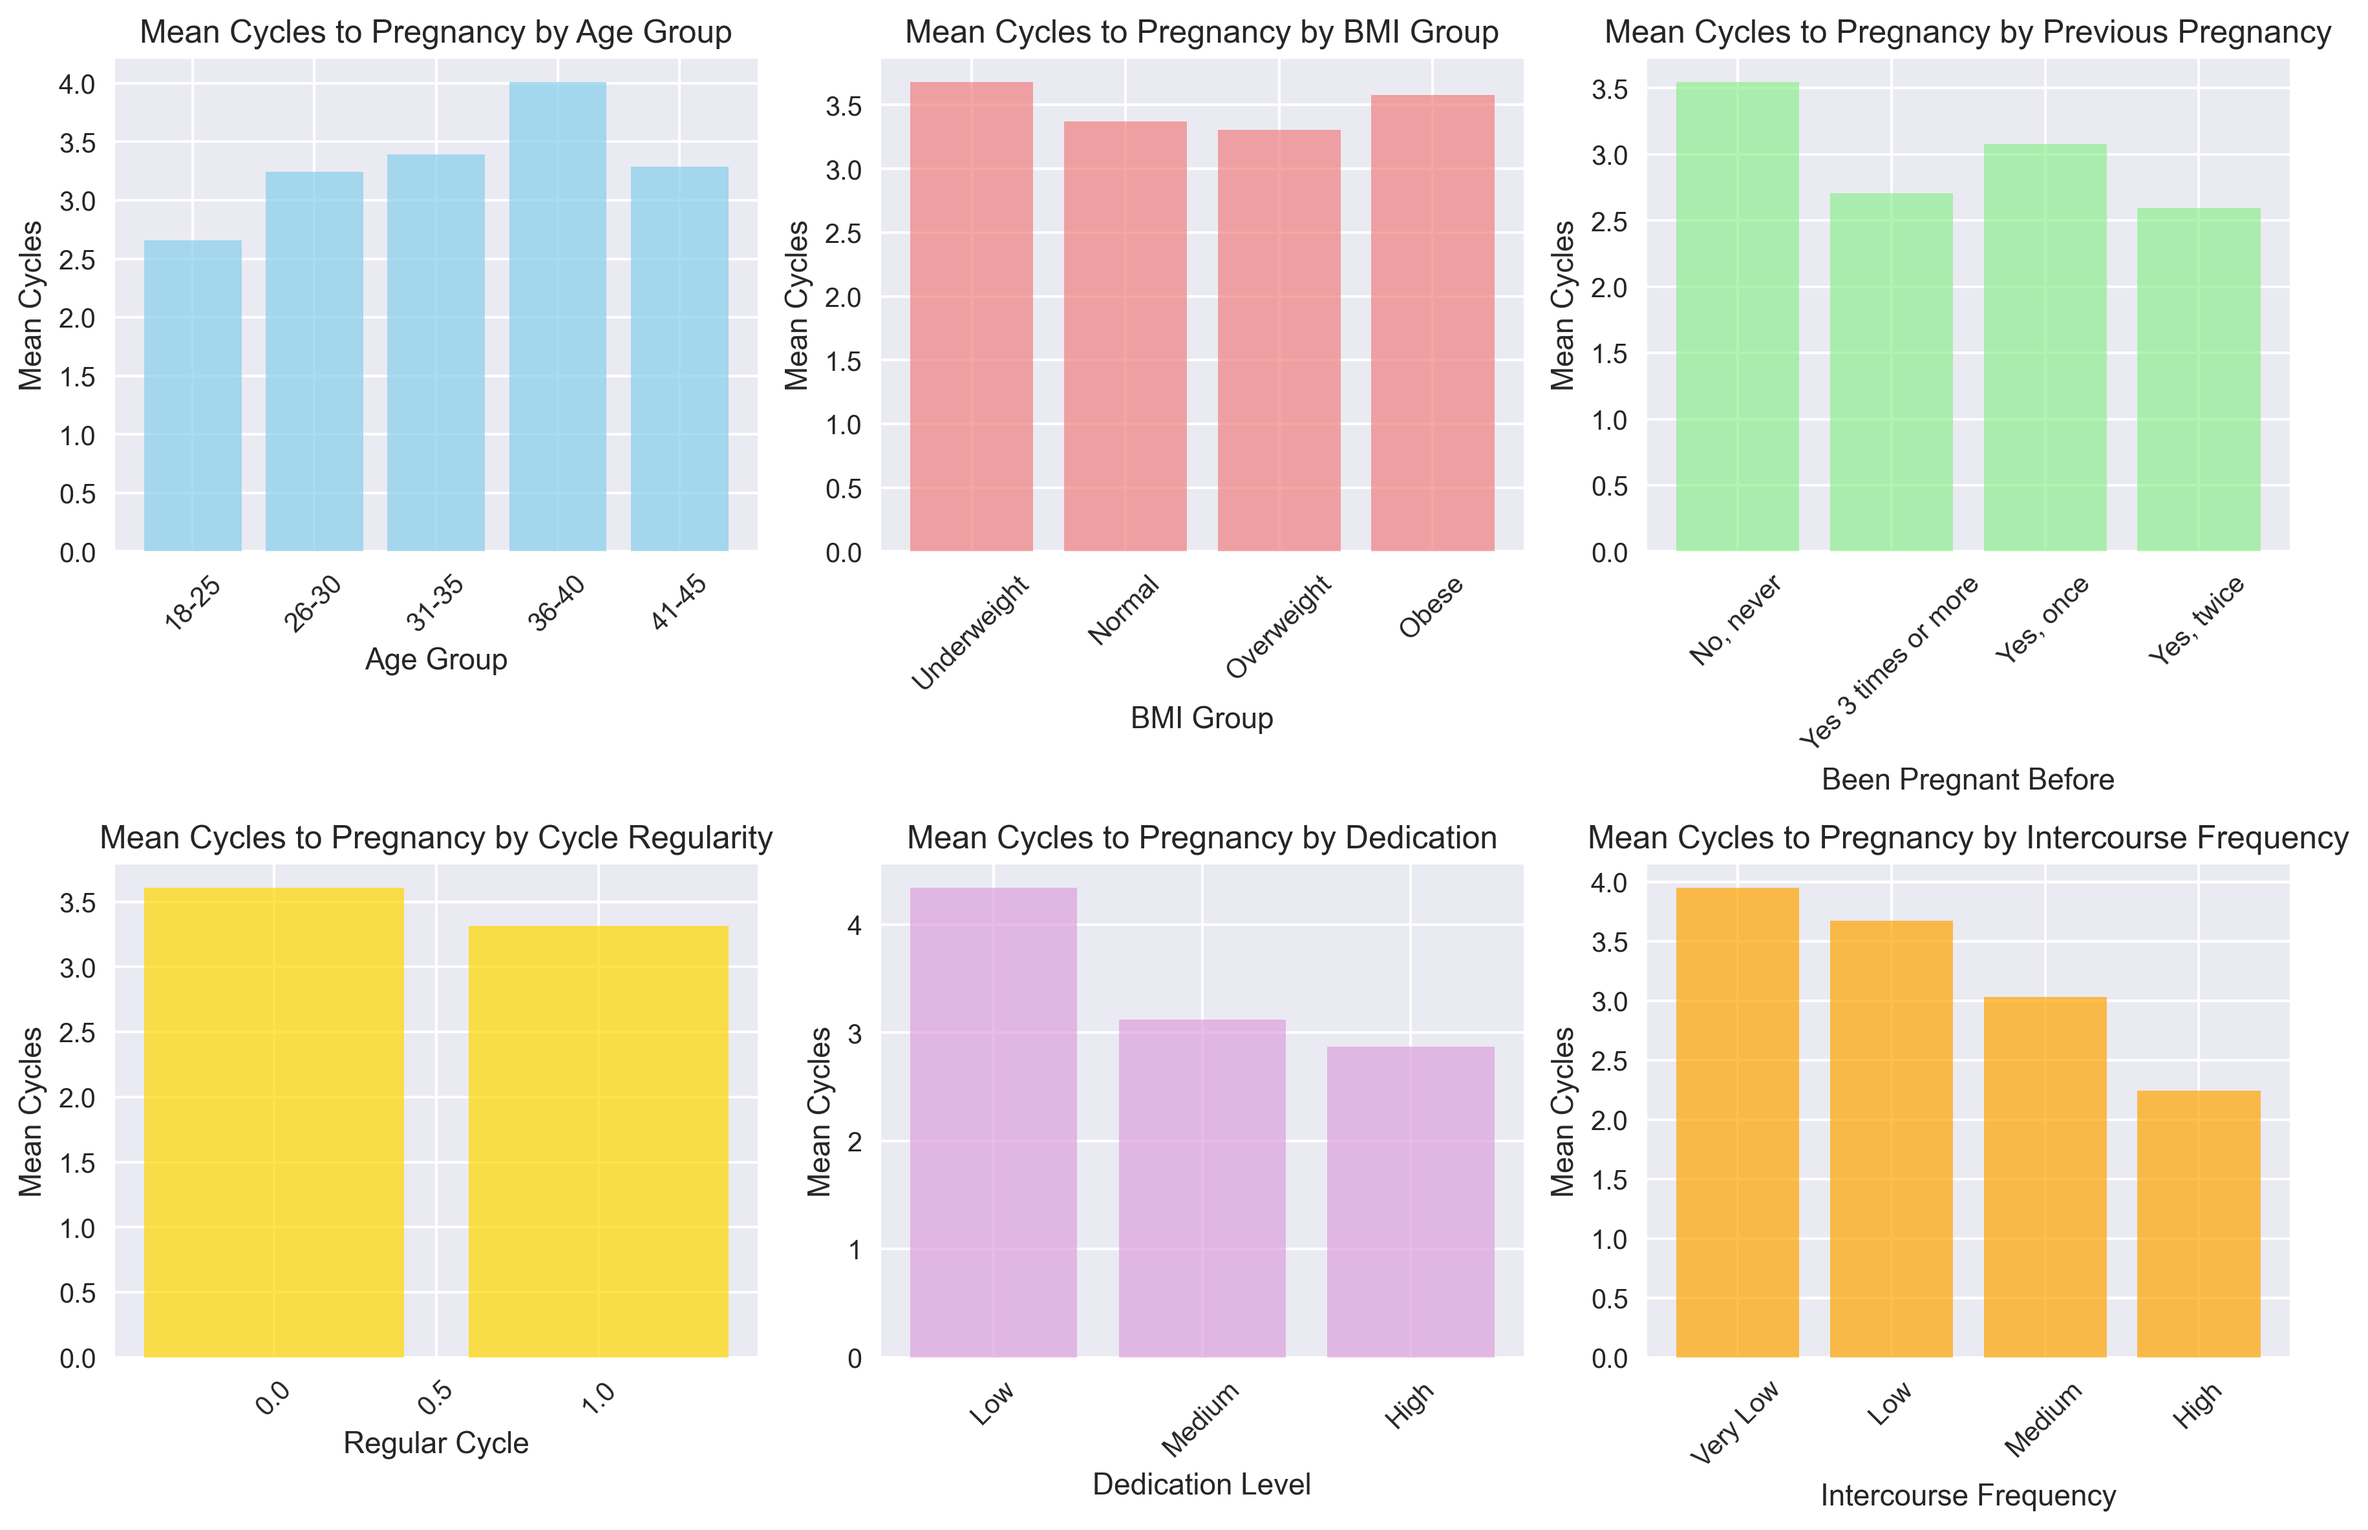
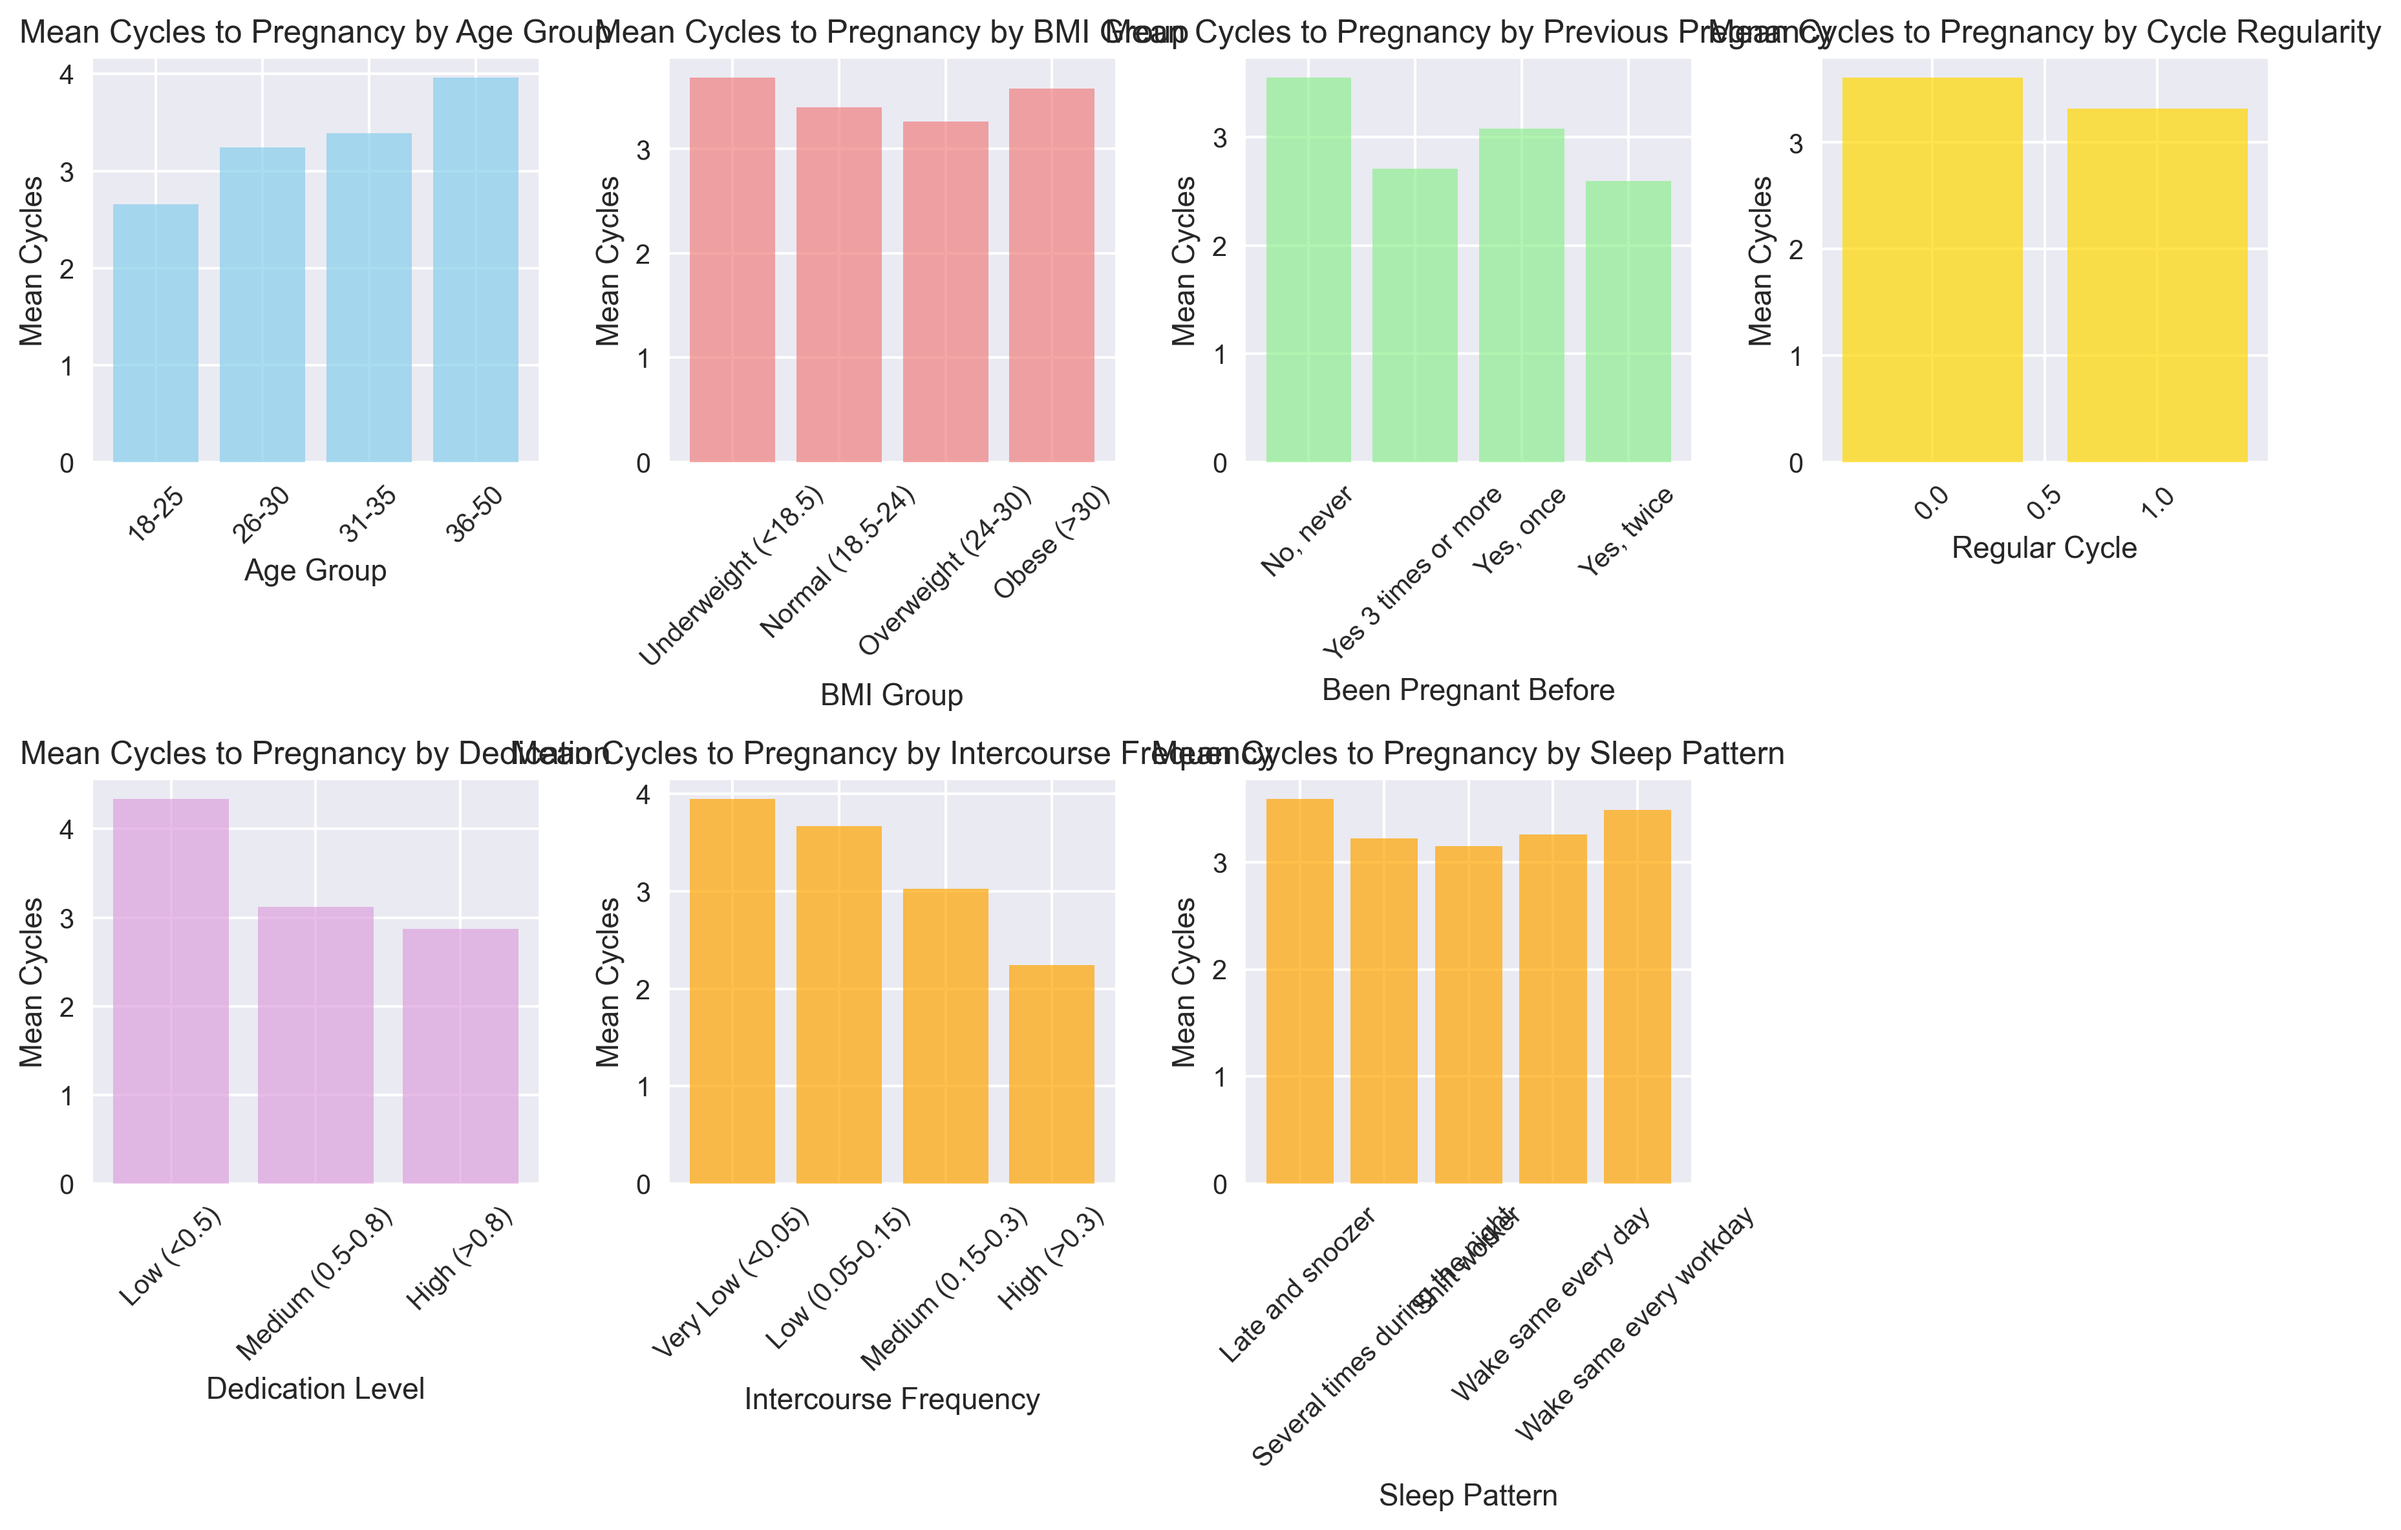
Add sleep analysis

diff --git a/natural_cycles_assignment/question_3_factors_impacting_conception_time.py b/natural_cycles_assignment/question_3_factors_impacting_conception_time.py
@@ -7,6 +7,7 @@ from natural_cycles_assignment.import_data import load_and_clean_data
 from sklearn.model_selection import train_test_split, KFold
 from xgboost import XGBRegressor
 from sklearn.metrics import mean_squared_error, mean_absolute_error, r2_score
+from scipy.stats import pointbiserialr, f_oneway
 
 # Set up plotting style
 plt.style.use("seaborn-v0_8")
@@ -36,7 +37,7 @@ def question_3_factors_impacting_conception_time(df):
 
     # 1. Age analysis
     print("\n1. AGE ANALYSIS:")
-    age_bins = pd.IntervalIndex.from_tuples([(18, 25), (26, 30), (31, 35), (36, 50)])
+    age_bins = [18, 25, 30, 35, 50]
     age_labels = ["18-25", "26-30", "31-35", "36-50"]
 
     df_pregnant["age_group"] = pd.cut(
@@ -65,7 +66,12 @@ def question_3_factors_impacting_conception_time(df):
     # 2. BMI analysis
     print("\n2. BMI ANALYSIS:")
     bmi_bins = [0, 18.5, 24, 30, 50]
-    bmi_labels = ["Underweight (<18.5)", "Normal (18.5-24)", "Overweight (24-30)", "Obese (>30)"]
+    bmi_labels = [
+        "Underweight (<18.5)",
+        "Normal (18.5-24)",
+        "Overweight (24-30)",
+        "Obese (>30)",
+    ]
 
     df_pregnant["bmi_group"] = pd.cut(
         df_pregnant["bmi"], bins=bmi_bins, labels=bmi_labels, include_lowest=True
@@ -109,7 +115,7 @@ def question_3_factors_impacting_conception_time(df):
     # 5. Dedication analysis
     print("\n5. DEDICATION ANALYSIS:")
     dedication_bins = [0, 0.5, 0.8, 1.0]
-    dedication_labels = ["Low", "Medium", "High"]
+    dedication_labels = ["Low (<0.5)", "Medium (0.5-0.8)", "High (>0.8)"]
 
     df_pregnant["dedication_group"] = pd.cut(
         df_pregnant["dedication"],
@@ -127,7 +133,7 @@ def question_3_factors_impacting_conception_time(df):
     # 6. Intercourse frequency analysis
     print("\n6. INTERCOURSE FREQUENCY ANALYSIS:")
     freq_bins = [0, 0.05, 0.15, 0.3, 1.0]
-    freq_labels = ["Very Low", "Low", "Medium", "High"]
+    freq_labels = ["Very Low (<0.05)", "Low (0.05-0.15)", "Medium (0.15-0.3)", "High (>0.3)"]
 
     df_pregnant["freq_group"] = pd.cut(
         df_pregnant["intercourse_frequency"],
@@ -142,11 +148,21 @@ def question_3_factors_impacting_conception_time(df):
     )
     print(freq_analysis)
 
+    # 7. Dedication analysis
+    print("\n7. SLEEPING PATTERN ANALYSIS:")
+
+    dedication_analysis = (
+        df_pregnant.groupby("sleeping_pattern")["n_cycles_trying"]
+        .agg(["mean", "median", "count"])
+        .round(2)
+    )
+    print(dedication_analysis)
+
     # Create visualizations
     plt.figure(figsize=(12, 8))
 
     # Age vs cycles
-    plt.subplot(2, 3, 1)
+    plt.subplot(2, 4, 1)
     age_means = df_pregnant.groupby("age_group")["n_cycles_trying"].mean()
     plt.bar(age_means.index, age_means.values, color="skyblue", alpha=0.7)
     plt.title("Mean Cycles to Pregnancy by Age Group")
@@ -155,7 +171,7 @@ def question_3_factors_impacting_conception_time(df):
     plt.xticks(rotation=45)
 
     # BMI vs cycles
-    plt.subplot(2, 3, 2)
+    plt.subplot(2, 4, 2)
     bmi_means = df_pregnant.groupby("bmi_group")["n_cycles_trying"].mean()
     plt.bar(bmi_means.index, bmi_means.values, color="lightcoral", alpha=0.7)
     plt.title("Mean Cycles to Pregnancy by BMI Group")
@@ -164,7 +180,7 @@ def question_3_factors_impacting_conception_time(df):
     plt.xticks(rotation=45)
 
     # Previous pregnancy vs cycles
-    plt.subplot(2, 3, 3)
+    plt.subplot(2, 4, 3)
     prev_means = df_pregnant.groupby("been_pregnant_before")["n_cycles_trying"].mean()
     plt.bar(prev_means.index, prev_means.values, color="lightgreen", alpha=0.7)
     plt.title("Mean Cycles to Pregnancy by Previous Pregnancy")
@@ -173,7 +189,7 @@ def question_3_factors_impacting_conception_time(df):
     plt.xticks(rotation=45)
 
     # Cycle regularity vs cycles
-    plt.subplot(2, 3, 4)
+    plt.subplot(2, 4, 4)
     cycle_means = df_pregnant.groupby("regular_cycle")["n_cycles_trying"].mean()
     plt.bar(cycle_means.index, cycle_means.values, color="gold", alpha=0.7)
     plt.title("Mean Cycles to Pregnancy by Cycle Regularity")
@@ -182,7 +198,7 @@ def question_3_factors_impacting_conception_time(df):
     plt.xticks(rotation=45)
 
     # Dedication vs cycles
-    plt.subplot(2, 3, 5)
+    plt.subplot(2, 4, 5)
     ded_means = df_pregnant.groupby("dedication_group")["n_cycles_trying"].mean()
     plt.bar(ded_means.index, ded_means.values, color="plum", alpha=0.7)
     plt.title("Mean Cycles to Pregnancy by Dedication")
@@ -191,11 +207,20 @@ def question_3_factors_impacting_conception_time(df):
     plt.xticks(rotation=45)
 
     # Intercourse frequency vs cycles
-    plt.subplot(2, 3, 6)
+    plt.subplot(2, 4, 6)
     freq_means = df_pregnant.groupby("freq_group")["n_cycles_trying"].mean()
     plt.bar(freq_means.index, freq_means.values, color="orange", alpha=0.7)
     plt.title("Mean Cycles to Pregnancy by Intercourse Frequency")
     plt.xlabel("Intercourse Frequency")
+    plt.ylabel("Mean Cycles")
+    plt.xticks(rotation=45)
+
+    # Intercourse frequency vs cycles
+    plt.subplot(2, 4, 7)
+    freq_means = df_pregnant.groupby("sleeping_pattern")["n_cycles_trying"].mean()
+    plt.bar(freq_means.index, freq_means.values, color="orange", alpha=0.7)
+    plt.title("Mean Cycles to Pregnancy by Sleep Pattern")
+    plt.xlabel("Sleep Pattern")
     plt.ylabel("Mean Cycles")
     plt.xticks(rotation=45)
 
@@ -216,6 +241,88 @@ def question_3_factors_impacting_conception_time(df):
     correlation_matrix = df_pregnant[numeric_cols + ["n_cycles_trying"]].corr()
     print("Correlation with cycles to pregnancy:")
     print(correlation_matrix["n_cycles_trying"].sort_values(ascending=False))
+
+    associations = []
+    # Numerical variables (Pearson)
+    for col in numeric_cols:
+        corr = correlation_matrix.loc[col, "n_cycles_trying"]
+        associations.append(
+            {"Variable": col, "Type": "Numerical (Pearson)", "Association": abs(corr)}
+        )
+
+    # Categorical variables
+    cat_vars = [
+        ("age_group", df_pregnant["age_group"]),
+        ("bmi_group", df_pregnant["bmi_group"]),
+        ("been_pregnant_before", df_pregnant["been_pregnant_before"]),
+        ("regular_cycle", df_pregnant["regular_cycle"]),
+        ("dedication_group", df_pregnant["dedication_group"]),
+        ("freq_group", df_pregnant["freq_group"]),
+    ]
+    for name, series in cat_vars:
+        if series.nunique() == 2:
+            # Binary categorical: point-biserial correlation
+            try:
+                vals = pd.get_dummies(series, drop_first=True)
+                corr, _ = pointbiserialr(
+                    vals.values.flatten(), df_pregnant["n_cycles_trying"]
+                )
+                associations.append(
+                    {
+                        "Variable": name,
+                        "Type": "Categorical (point-biserial)",
+                        "Association": abs(corr),
+                    }
+                )
+            except Exception as e:
+                associations.append(
+                    {
+                        "Variable": name,
+                        "Type": "Categorical (point-biserial)",
+                        "Association": np.nan,
+                    }
+                )
+        elif series.nunique() > 1:
+            # Multi-class: eta squared from ANOVA
+            try:
+                groups = [
+                    df_pregnant.loc[series == cat, "n_cycles_trying"].values
+                    for cat in series.dropna().unique()
+                ]
+                f, p = f_oneway(*groups)
+                # eta squared = SSB/SST
+                grand_mean = df_pregnant["n_cycles_trying"].mean()
+                ssb = sum([len(g) * (np.mean(g) - grand_mean) ** 2 for g in groups])
+                sst = sum((df_pregnant["n_cycles_trying"] - grand_mean) ** 2)
+                eta_sq = ssb / sst if sst > 0 else np.nan
+                associations.append(
+                    {
+                        "Variable": name,
+                        "Type": "Categorical (eta squared)",
+                        "Association": eta_sq,
+                    }
+                )
+            except Exception as e:
+                associations.append(
+                    {
+                        "Variable": name,
+                        "Type": "Categorical (eta squared)",
+                        "Association": np.nan,
+                    }
+                )
+
+    # Overview plot
+    assoc_df = pd.DataFrame(associations).sort_values("Association", ascending=False)
+    plt.figure(figsize=(8, 5))
+    sns.barplot(data=assoc_df, x="Association", y="Variable", hue="Type", dodge=False)
+    plt.title("Association of Variables with Cycles to Pregnancy")
+    plt.xlabel("Association Strength (|correlation| or eta squared)")
+    plt.ylabel("")
+    plt.tight_layout()
+    plt.savefig(
+        "reports/figures/overview_factors_correlation.png", dpi=300, bbox_inches="tight"
+    )
+    plt.show()
 
     return df_pregnant
 
